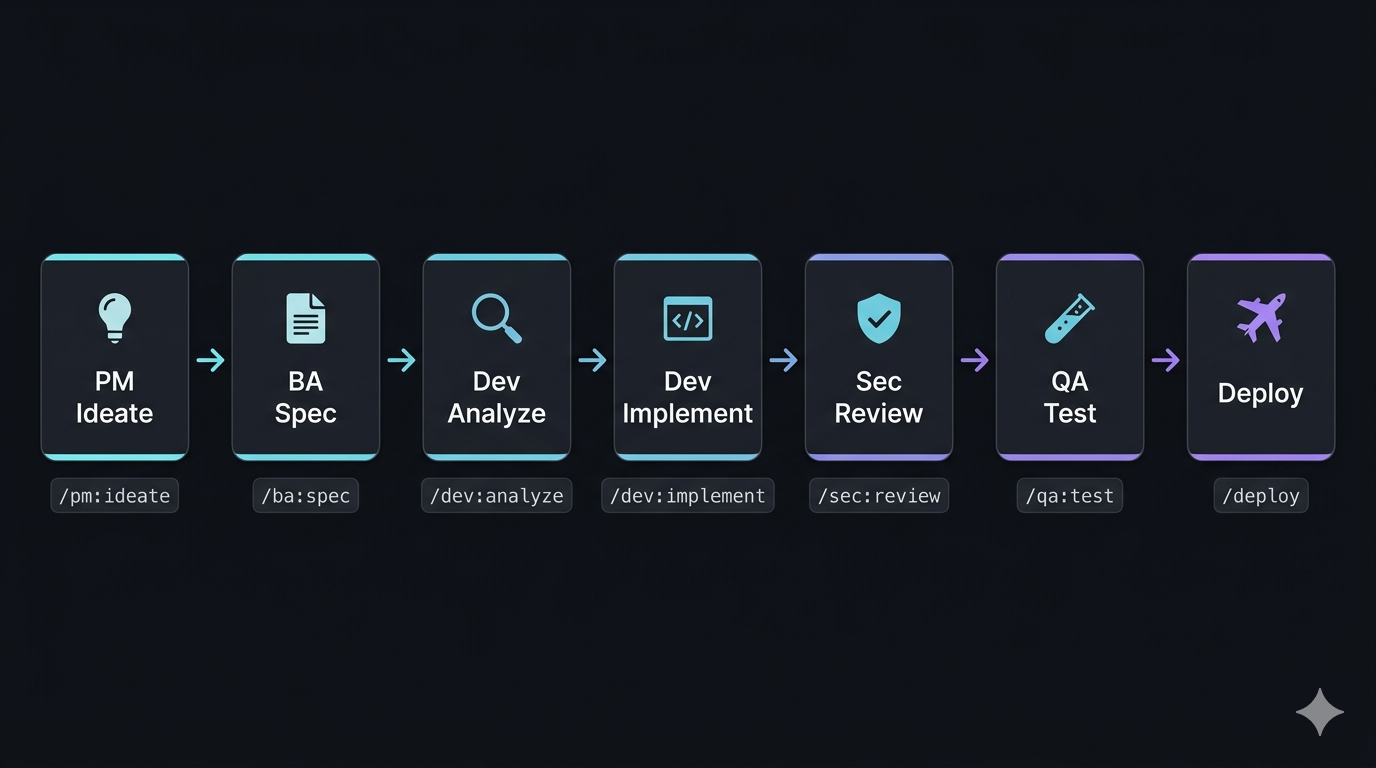
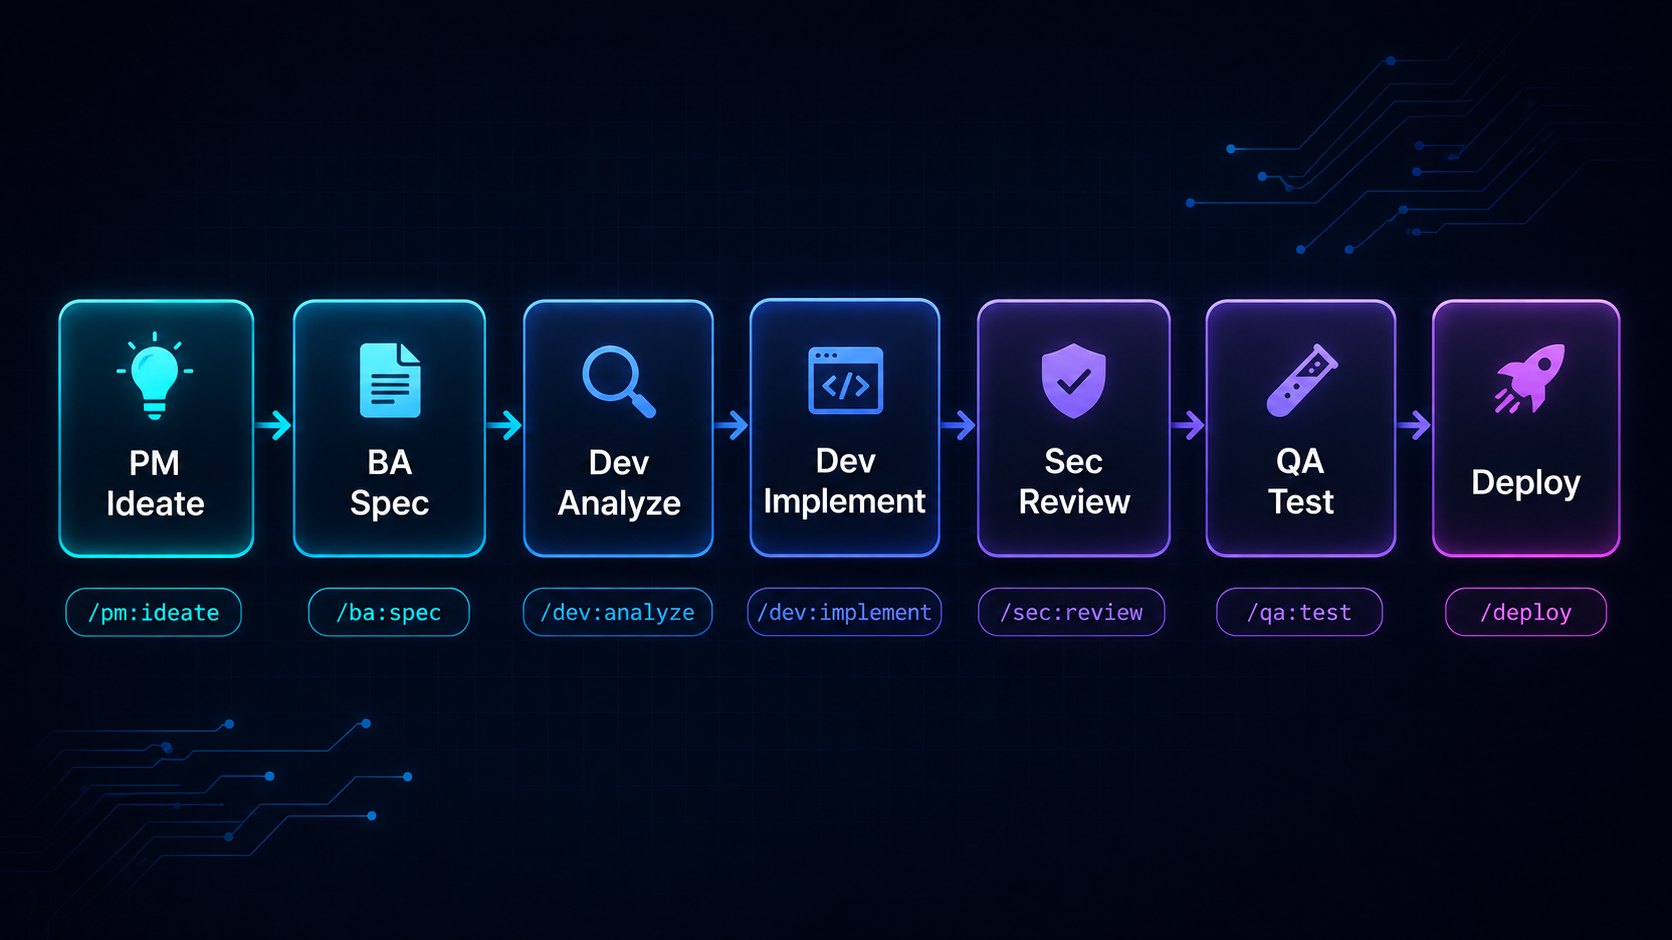
Update resource

diff --git a/README.md b/README.md
@@ -9,7 +9,6 @@
 </p>
 
 <p align="center">
-  <img src="assets/logo.png" alt="Logo" width="80">
   <br><br>
   <em>A <strong>Claude Code</strong> skill pack covering the full Software Development Lifecycle (SDLC) — from requirements analysis to deployment.</em>
   <br>

diff --git a/README.vi.md b/README.vi.md
@@ -9,7 +9,6 @@
 </p>
 
 <p align="center">
-  <img src="assets/logo.png" alt="Logo" width="80">
   <br><br>
   <em>Bộ skill cho <strong>Claude Code</strong> hỗ trợ toàn bộ vòng đời phần mềm (SDLC) — từ phân tích yêu cầu đến deploy.</em>
   <br>